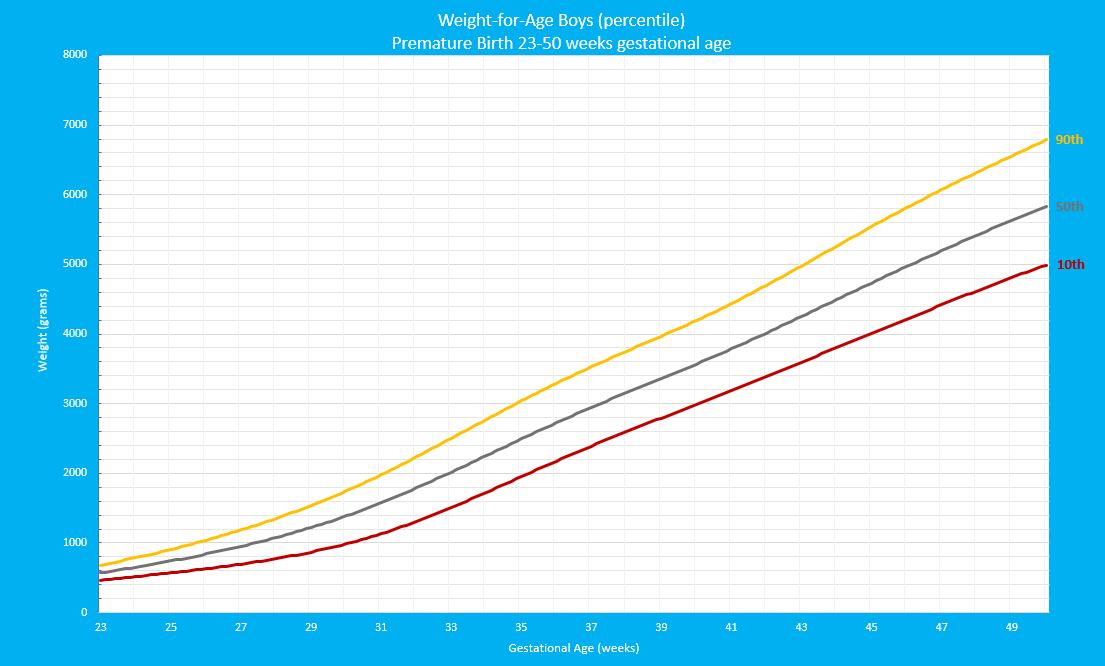
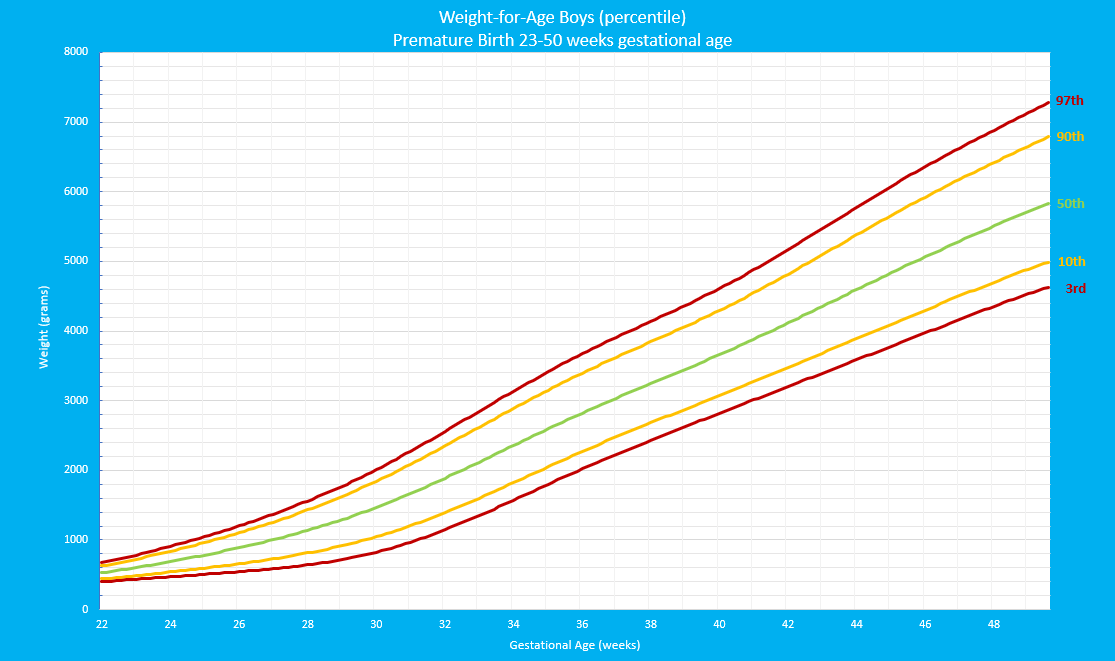
Update fenton charts and update the x,y coordinates to match

diff --git a/HeadCircChart.php b/HeadCircChart.php
@@ -95,13 +95,13 @@ class HeadCircChart extends AbstractExternalModule
 		"headCirc_fenton" => [
 			"boys" => [
 				"imageLocation" => __DIR__ . "/images/fenton_growth_chart_head_circ_boys.PNG",
-				"pixelRange" => [102,52,951,558],
+				"pixelRange" => [95,57,951,558],
 				"graphRange" => [24,50,15,45],
 				"logic" => [["sex","=","1"]]
 			],
 			"girls" => [
 				"imageLocation" => __DIR__ . "/images/fenton_growth_chart_head_circ_girls.PNG",
-				"pixelRange" => [102,53,950,558],
+				"pixelRange" => [99,54,950,558],
 				"graphRange" => [24,50,15,45],
 				"logic" => [["sex","=","2"]]
 			]
@@ -109,13 +109,13 @@ class HeadCircChart extends AbstractExternalModule
 		"height_fenton" => [
 			"boys" => [
 				"imageLocation" => __DIR__ . "/images/fenton_growth_chart_height_boys.PNG",
-				"pixelRange" => [85,55,951,559],
+				"pixelRange" => [94,47,951,559],
 				"graphRange" => [24,50,20,65],
 				"logic" => [["sex","=","1"]]
 			],
 			"girls" => [
 				"imageLocation" => __DIR__ . "/images/fenton_growth_chart_height_girls.PNG",
-				"pixelRange" => [80,56,950,557],
+				"pixelRange" => [100,53,950,557],
 				"graphRange" => [24,50,20,65],
 				"logic" => [["sex","=","2"]]
 			]
@@ -123,13 +123,13 @@ class HeadCircChart extends AbstractExternalModule
 		"weight_fenton" => [
 			"boys" => [
 				"imageLocation" => __DIR__ . "/images/fenton_growth_chart_weight_boys.PNG",
-				"pixelRange" => [100,53,950,560],
+				"pixelRange" => [100,51,950,560],
 				"graphRange" => [23,50,0,8],
 				"logic" => [["sex","=","1"]]
 			],
 			"girls" => [
 				"imageLocation" => __DIR__ . "/images/fenton_growth_chart_weight_girls.PNG",
-				"pixelRange" => [100,53,950,558],
+				"pixelRange" => [99,54,950,558],
 				"graphRange" => [23,50,0,7],
 				"logic" => [["sex","=","2"]]
 			]
@@ -217,6 +217,11 @@ class HeadCircChart extends AbstractExternalModule
 					$age[$ageKey] = $gestationalAge + $ageValue * 30.5 / 7;
 				}
 				$useFentonChart = true;
+			}
+			else if($gestationalAge && $gestationalAge <= 36) {
+				foreach($age as $ageKey => $ageValue) {
+					$age[$ageKey] = ($gestationalAge - 40) * 7 / 30.5 + $ageValue;
+				}
 			}
 			
 			## Insert head circumference chart if data exists
@@ -397,17 +402,22 @@ class HeadCircChart extends AbstractExternalModule
 				$correctedAge = $gestationalAge + ($age * 30.5 / 7);
 			}
 		
-			if($gestationalAge && $gestationalAge <= 36 && $correctedAge < 50) {
-				## Premature data is denoted by "1" being prepended to sex
-				$sex = "1".$sex;
-				$ageDays = (string)round($correctedAge * 7);
-				$distributionData = $refData[$sex][$ageDays];
-				
-				## Premature benchmark data is in grams
-				if($weight) {
-					$weight *= 1000;
+			if($gestationalAge && $gestationalAge <= 36) {
+				if($correctedAge < 50) {
+					## Premature data is denoted by "1" being prepended to sex
+					$sex = "1".$sex;
+					$ageDays = (string)round($correctedAge * 7);
+					$distributionData = $refData[$sex][$ageDays];
+					
+					## Premature benchmark data is in grams
+					if($weight) {
+						$weight *= 1000;
+					}
 				}
-				
+				else {
+					$ageDays = (string)(round(($gestationalAge - 40) * 7 + $age * 30.5));
+					$distributionData = $refData[$sex][$ageDays];
+				}
 //				error_log("Found premature, using $ageDays vs $gestationalAge vs $correctedAge and $sex");
 //				error_log(var_export($distributionData,true));
 			}
